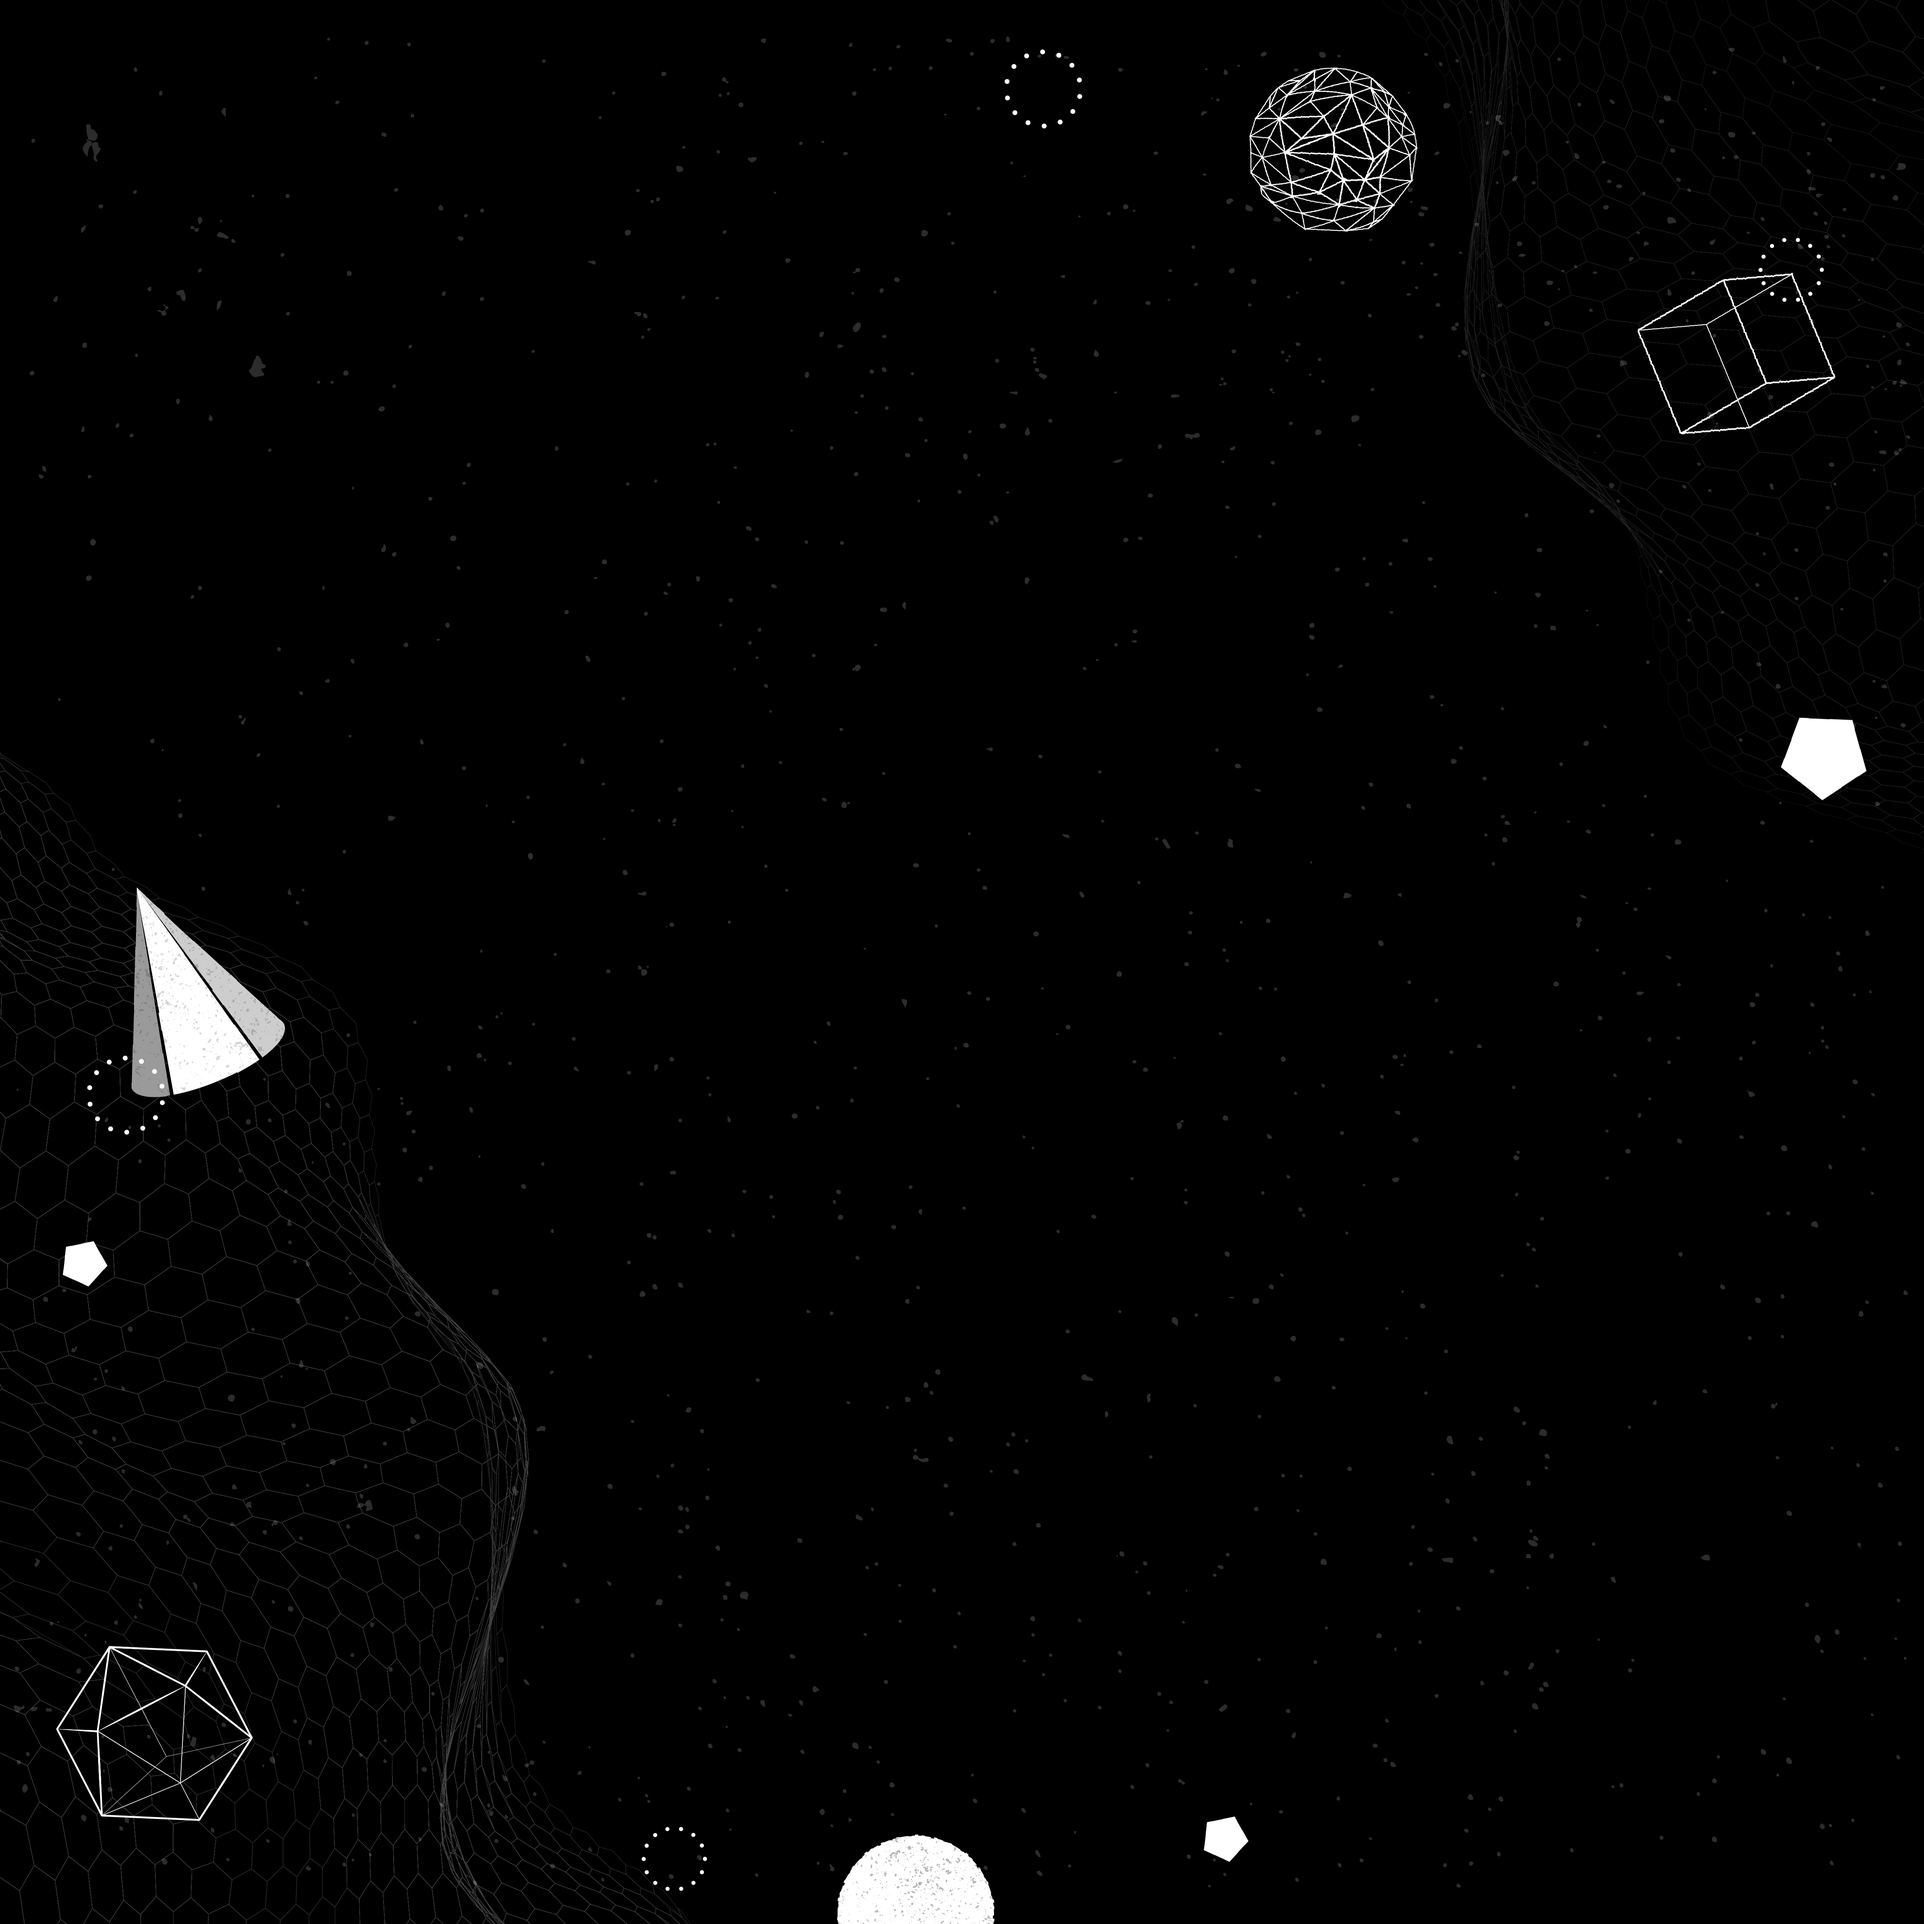
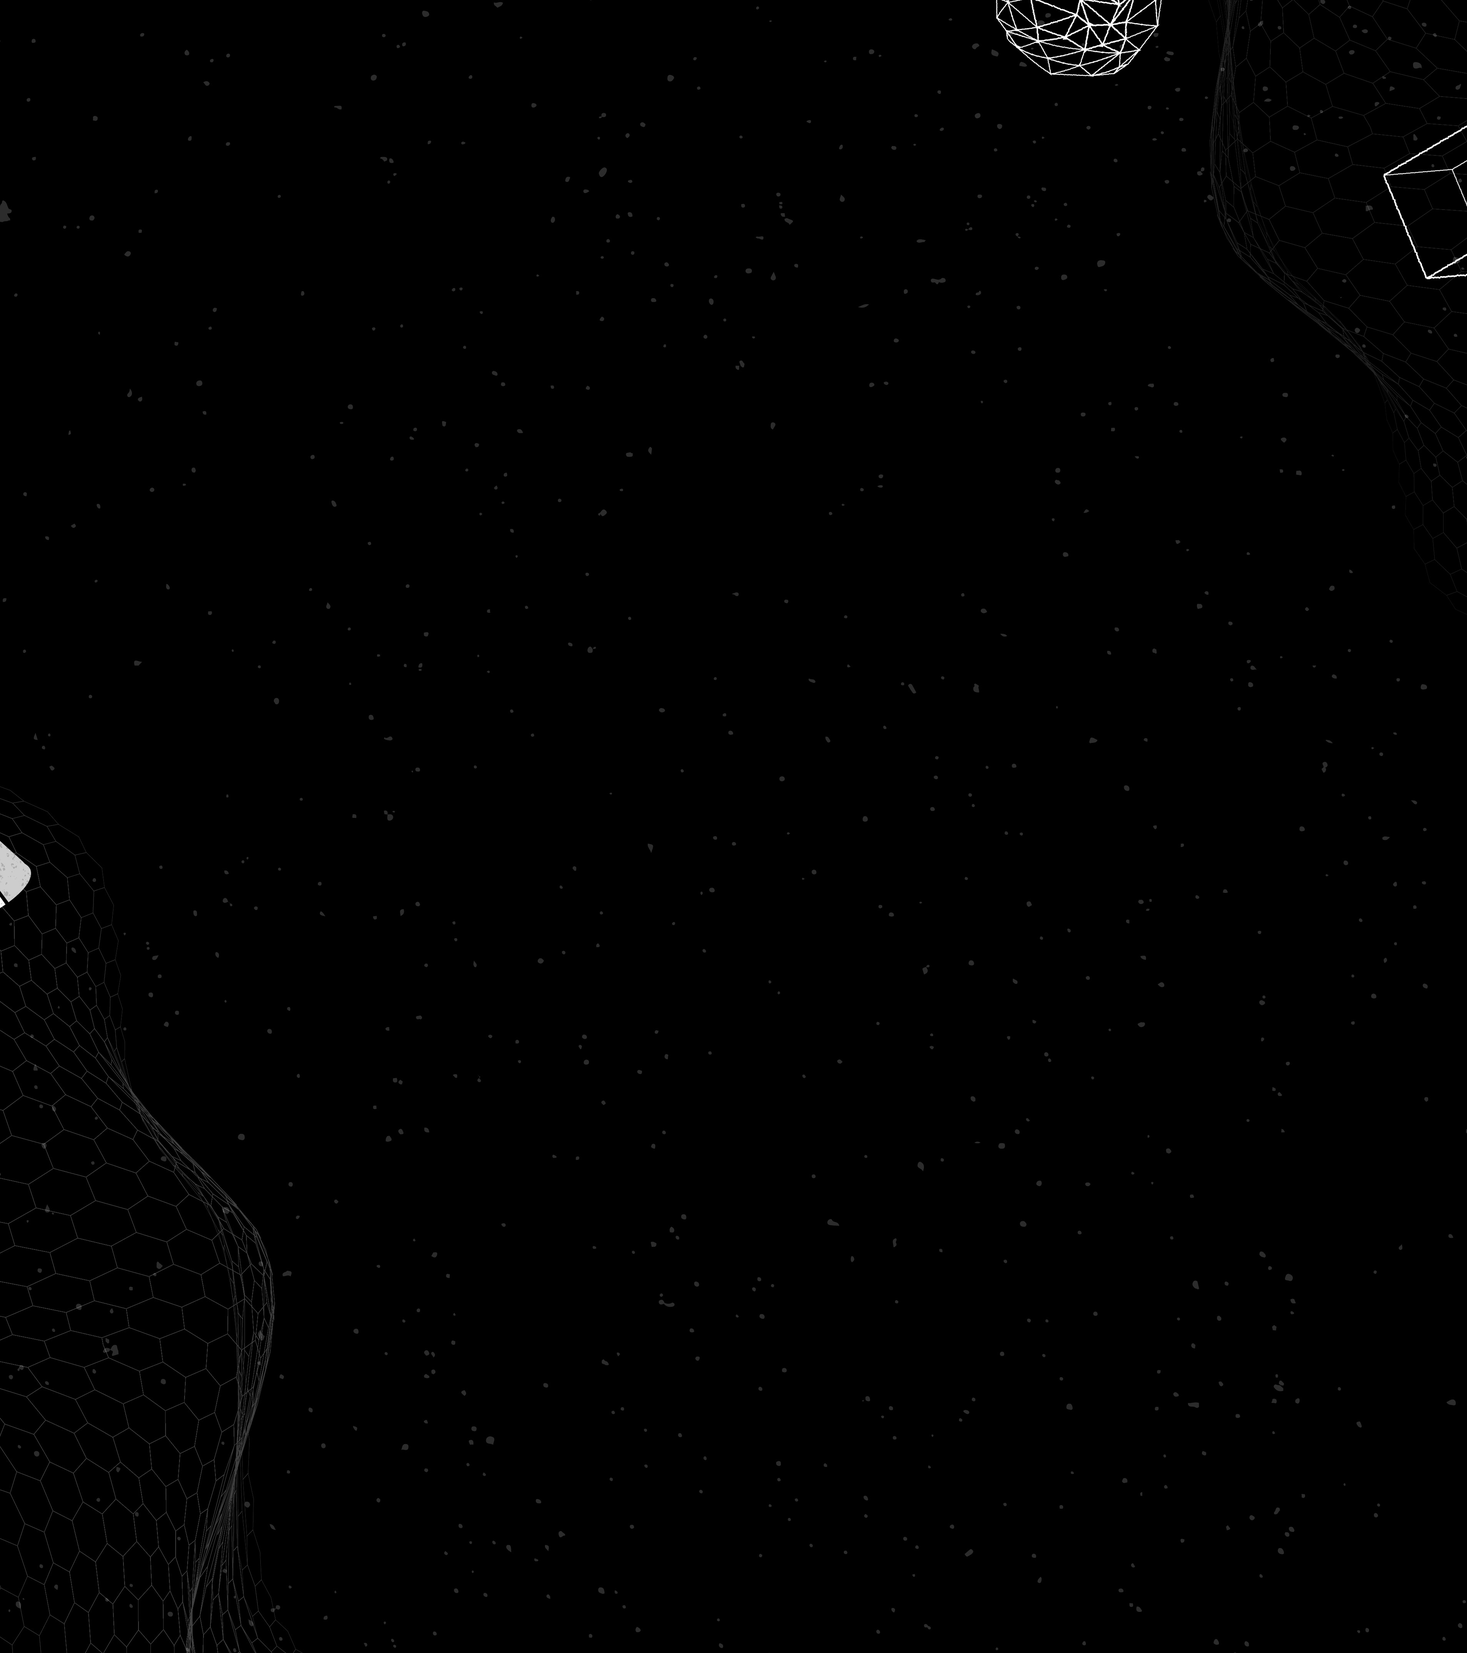
feat: body responsive

diff --git a/src/css/globals.css b/src/css/globals.css
@@ -8,8 +8,6 @@
   --black-opac: #1e111671;
   --duration: .45s ;
   --cubic: cubic-bezier(0.4, 0, 0.2, 1) ;
-  --color-1: #d5dadd ;
-  --color-2: #51d5c2 ;
 }
 
 @font-face {
@@ -33,7 +31,6 @@ body {
 body {
   color: var(--white);
   background-image: url("/images/bg.jpg");
-  background-size: 120%;
   background-position: center;
   font-family: "roboto";
   letter-spacing: 0.8px;
@@ -44,6 +41,8 @@ body {
 body.light {
   color: var(--black);
   background-image: url("/images/bg_light.jpg");
+  background-size: cover;
+  background-repeat: no-repeat;
 }
 
 * {
@@ -111,6 +110,19 @@ Home light mode
   }
   svg:hover {
     fill: var(--black) !important;
+  }
+
+  .menu__item .icon {
+    fill: var(--black)
+  }
+  .menu__item.active .icon {
+    fill: var(--primary);
+  }
+  .menu__item.active::after {
+    background-color: var(--primary);
+  }
+  .menu__text.active {
+    color: var(--primary);
   }
 
   a {
@@ -199,12 +211,74 @@ small {
   opacity: 1 !important;
 }
 
-/* Home */
+/* begin : Home */
 
 /* Text animation*/
 .hello {
   font-family: "sour";
   span {
     font-size: 32px;
+  }
+}
+
+/* end : Home */
+
+/* begin : Responsive*/
+@media screen and (max-width: 800px) {
+  .title {
+    text-align: center;
+  }
+  .title::before {
+    background-color: transparent!important;
+  }
+
+  .home-body {
+    flex-direction: column;
+    align-items: center;
+    text-align: center;
+    row-gap: 36px;
+
+    h3::before, .hello-container::before {
+      background-color: transparent!important;
+    }
+  }
+
+  #about {
+    .about_me {
+      text-align: center;
+    }
+
+    #articles {
+      flex-direction: column;
+      row-gap: 24px;
+    }
+
+    .skills-title {
+      width: 100px;
+      margin: 0 auto;
+    }
+
+    #skills {
+      flex-direction: column;
+      align-items: center;
+      row-gap: 12px;
+    }
+  }
+}
+
+@media screen and (max-width: 679px) {
+  .feather-sun, .feather-moon {
+    width: 14px;
+    height: 14px;
+  }
+}
+
+@media screen and (max-width: 599px) {
+  #projects {
+    .articles {
+      flex-direction: column;
+      align-items: center;
+      row-gap: 12px;
+    }
   }
 }

diff --git a/src/app/observer-effect.ts b/src/app/observer-effect.ts
@@ -1,16 +1,32 @@
+import aboutModule from "@/css/modules/about.module.css";
+
 export const addStyleOnView = (elementsOnView:HTMLElement[]) => {
-    const observer = new IntersectionObserver((entries, observer) =>{
-        entries.forEach(entry => {
-            if(entry.isIntersecting) {
-                if(entry.intersectionRatio >= 0.75) {
-                    entry.target.classList.add("visible");
-                }
+    function handleEntryObservation(entry: IntersectionObserverEntry) {
+        if(entry.isIntersecting) {
+            if(entry.intersectionRatio < 0.75) return;
+
+            if(entry.target.id === "articles") {
+                if(entry.target.querySelector('video')) return;
+
+                const videoWithTheAnimation = document.createElement("video");
+                videoWithTheAnimation.loop = true;
+                videoWithTheAnimation.autoplay = true;
+                videoWithTheAnimation.src = "/animations/learning.webm";
+                videoWithTheAnimation.className = aboutModule.learning_animation;
+                
+                entry.target.appendChild(videoWithTheAnimation);
+            }else {
+                entry.target.classList.add("visible");
             }
-        });
+        }
+    }
+
+    const observer = new IntersectionObserver((entries, observer) =>{
+        entries.forEach(handleEntryObservation);
     }, {
         root: document.body,
         rootMargin: "0px",
-        threshold: .5
+        threshold: .75
     });
 
     elementsOnView.forEach(elementOnView => observer.observe(elementOnView))

diff --git a/src/components/sections/About.tsx b/src/components/sections/About.tsx
@@ -6,13 +6,12 @@ import Image from "next/image";
 export const About: FC = ()=>{
     return <section className={aboutModule.main} id="about">
         <h4 className="title">{content.fr?.title}</h4>
-        <div className={aboutModule.articles}>
+        <div className={aboutModule.articles} id="articles">
             <article className={aboutModule.article + " about_me"}>{content.fr?.description}</article>
             <article className={aboutModule.article}>&quot;{content.fr?.quote}&quot;</article>
-            <video className={aboutModule.learning_animation} loop autoPlay src="/animations/learning.webm"></video>
         </div>
         <div className={aboutModule.skills}>
-            <div className={aboutModule.skills_head}>
+            <div className={`${aboutModule.skills_head} skills-title`}>
                 <Image src="/images/saiyan.png" width={24} height={24} alt="sayan skills" className={aboutModule.saiyan_icon}/>
                 <h5 className={aboutModule.skills_title}>{content.fr?.skills.title}</h5>
             </div>

diff --git a/src/components/sections/Home.tsx b/src/components/sections/Home.tsx
@@ -80,7 +80,6 @@ export const Home: FC = ()=>{
         const header = headerRef.current;
         if(homeSection && header) {
             const widthPercent = homeSection.offsetWidth * 100 / window.innerWidth;
-            console.log(window, widthPercent)
             header.style.width = `${widthPercent}%`;
         }
     }, []);
@@ -100,10 +99,10 @@ export const Home: FC = ()=>{
             </div>
 
         </header>
-        <div className={homeModule.body}>
+        <div className={`${homeModule.body} home-body`}>
             <div className={homeModule.left}>
                 <h3 className={homeModule.title} id="function">{content.fr?.title}</h3>
-                <div className={homeModule.description_container}>
+                <div className={`${homeModule.description_container} hello-container`}>
                     <Hello/>
                     <small className={homeModule.description_label}>{content.fr?.label}</small>
                 </div>

diff --git a/src/css/modules/about.module.css b/src/css/modules/about.module.css
@@ -35,7 +35,7 @@
 }
 
 .skills {
-    margin-top: 24px;
+    margin-top: 36px;
     .saiyan_icon {
         display: inline-block;
     }
@@ -46,7 +46,8 @@
 
     .skills_list {
         display: flex;
-        justify-content: space-between;
+        justify-content: left;
+        column-gap: 24px;
         margin-top: 24px;
     }
 
@@ -58,7 +59,7 @@
         margin-top: 12px;
     }
     .frontend, .backend, .tools {
-        width: 250px;
+        width: 200px;
         padding: 12px;
         border: 1px solid var(--border);
         border-radius: 3px;

diff --git a/src/app/page.tsx b/src/app/page.tsx
@@ -11,12 +11,13 @@ export default function App() {
 
   useEffect(()=>{
     document.body.className = theme;
-
+    
     addStyleOnView([
       document.querySelector("#function") as HTMLElement,
       document.querySelector("small") as HTMLElement,
-      document.querySelector(".about_me") as HTMLElement
-    ])
+      document.querySelector(".about_me") as HTMLElement,
+      document.querySelector("#articles") as HTMLElement
+    ]);
   }, [theme]);
 
   const toggleTheme = ()=>{

diff --git a/src/components/sections/Projects.tsx b/src/components/sections/Projects.tsx
@@ -24,7 +24,7 @@ export const Projects: FC = ()=>{
 
     return <section id="projects">
         <h4 className="title">{content.fr?.title}</h4>
-        <div className={projectsModule.articles}>
+        <div className={`${projectsModule.articles} articles`}>
             {content.fr?.projects.map(project => {
                 return <Article key={project.title} onClick={handleShowProjectModal} project={project} content={content}/>
             })}

diff --git a/src/css/modules/projects.module.css b/src/css/modules/projects.module.css
@@ -1,14 +1,15 @@
 .articles {
     display: flex;
-    justify-content: space-between;
+    justify-content: left;
     flex-wrap: nowrap;
+    column-gap: 12px;
 }
 
 .project {
     width: 300px;
     .image_outline {
         padding: 30px 15px;
-        background-color: var(--opac);
+        background-color: var(--border);
     }
     
     .image {

diff --git a/src/css/modules/home.module.css b/src/css/modules/home.module.css
@@ -10,7 +10,7 @@
     align-items: center;
     margin: 0 auto;
     padding: 12px;
-    z-index: 10;
+    z-index: 9;
     .menu_item {
         display: inline-block;
         margin-left: 24px;
